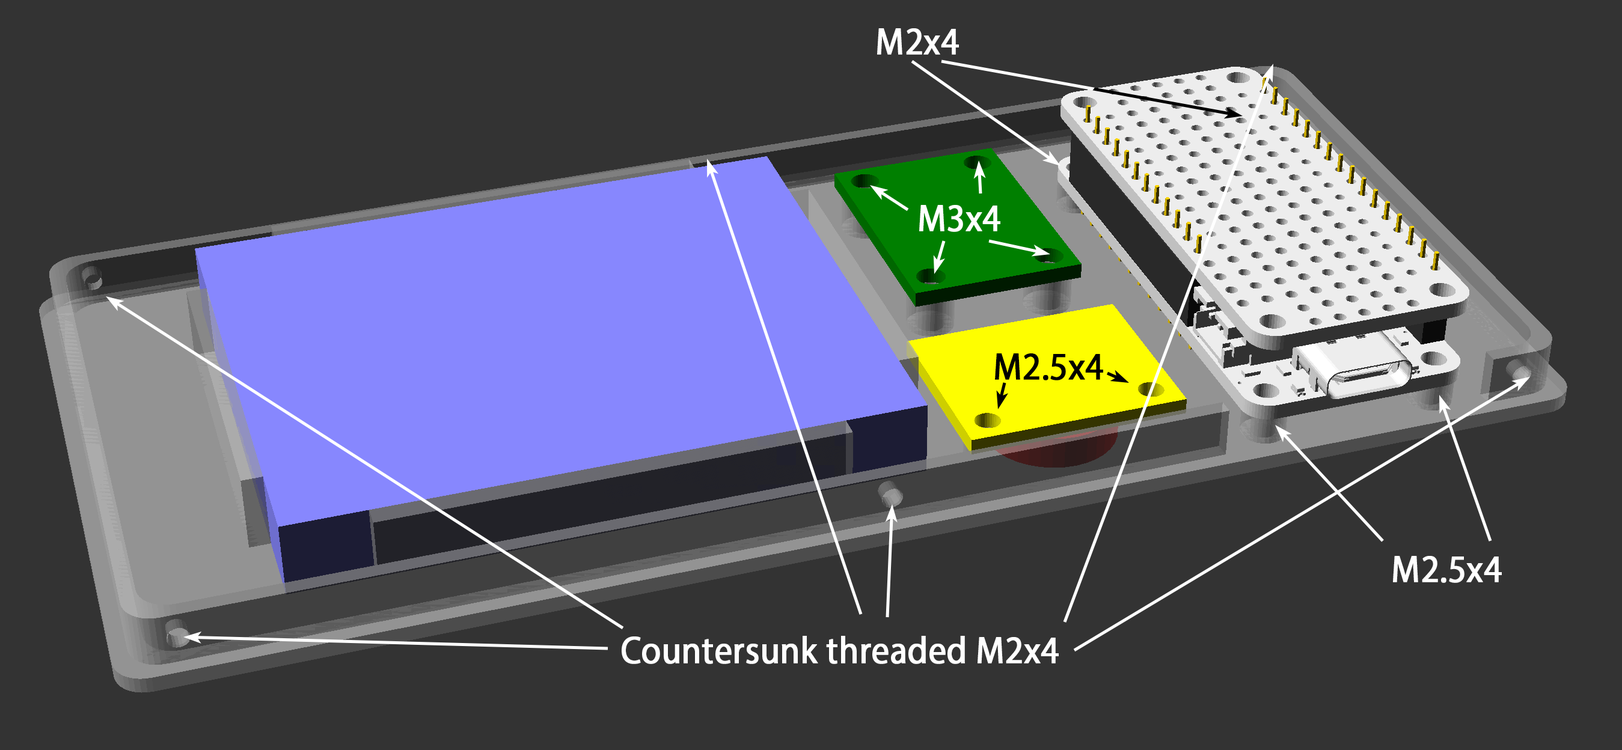
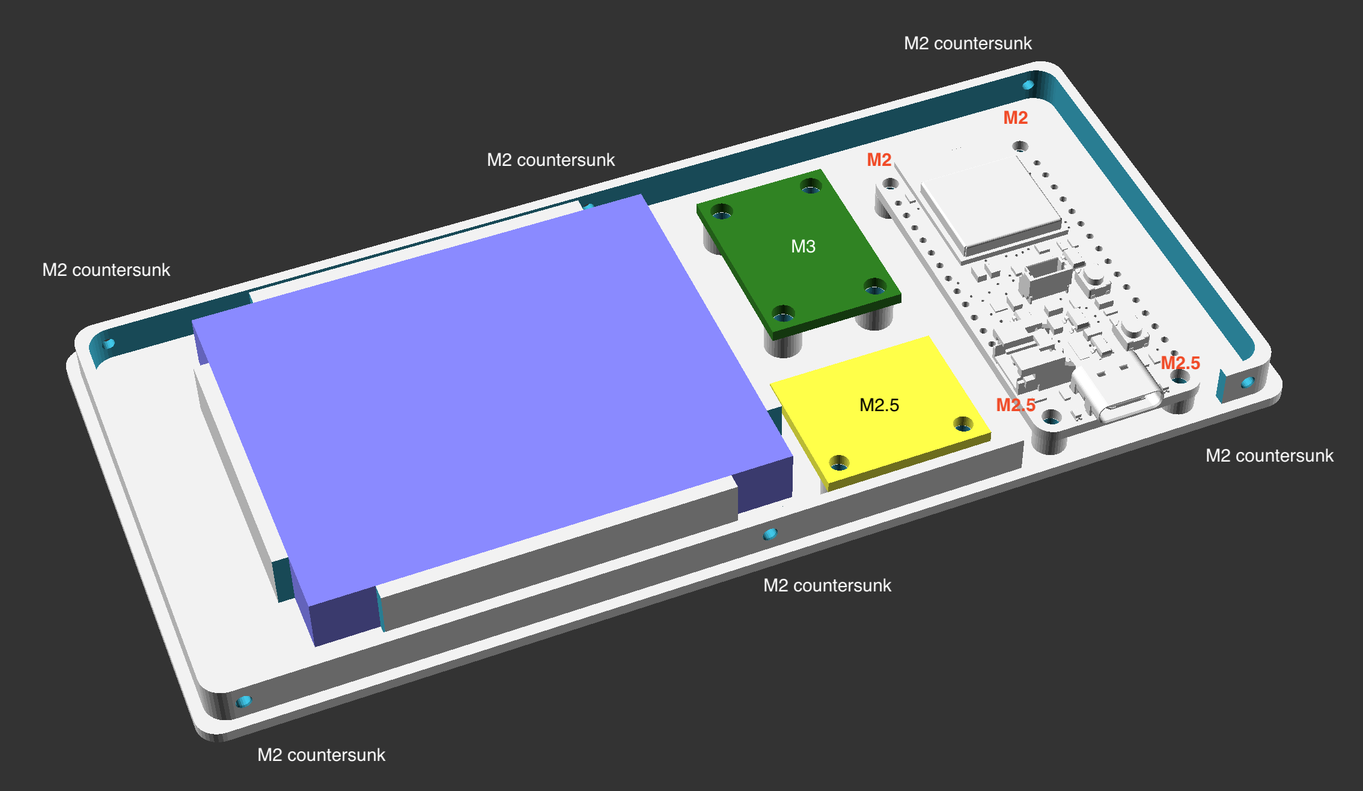
* Moved usage docs to software repo * Got rid of now-outdated post-assembly image * Builds no longer need the FeatherWing Proto nor either set of headers! * Piezo GND now gets soldered to the RTC's GND and Fritzing image updated accordingly * Various other doc cleanups * Add reset procedures to trou

diff --git a/README.md b/README.md
@@ -27,21 +27,19 @@ Note that you can get most of these parts from the manufacturer directly like [A
 
 Deviate from the parts list at your own risk, but _do not get a different battery!_ Adafruit batteries have polarities that match their own boards, and using a battery off Amazon or elsewhere may not match and destroy your board or even start a fire!
 
-| Part                                                                                                         | Quantity | Price  |
-|--------------------------------------------------------------------------------------------------------------|----------|--------|
-| [Adafruit ESP32-S3 Feather with 4MB Flash 2MB PSRAM](https://www.adafruit.com/product/5477)                  | 1        | $17.50 |
-| [Sparkfun 20x4 SerLCD](https://www.sparkfun.com/products/16398)                                              | 1        | $26.95 |
-| [Adafruit ANO Rotary Navigation Encoder to I2C Stemma QT Adapter](https://www.adafruit.com/product/5740)     | 1        | $4.95  |
-| [ANO Directional Navigation and Scroll Wheel Rotary Encoder](https://www.adafruit.com/product/5001)          | 1        | $8.95  |
-| [Lithium Ion Polymer Battery - 3.7v 2500mAh](https://www.adafruit.com/product/328)                           | 1        | $14.95 |
-| [STEMMA QT / Qwiic JST SH 4-pin Cable - 100mm Long](https://www.adafruit.com/product/4210)                   | 2        | $0.95  |
-| [STEMMA QT / Qwiic JST SH 4-pin Cable - 50mm Long](https://www.adafruit.com/product/4399)                    | 1        | $0.95  |
-| [Small Enclosed Piezo w/Wires](https://www.adafruit.com/product/1740)                                        | 1        | $0.95  |
-| [Adafruit SPI Flash SD Card - XTSD 512 MB](https://www.adafruit.com/product/4899)                            | 1        | $9.50  |
-| [Adafruit PCF8523 Real Time Clock Breakout Board - STEMMA QT / Qwiic](https://www.adafruit.com/product/5189) | 1        | $4.95  |
-| [Short Feather Male Headers - 12-pin and 16-pin Male Header Set](https://www.adafruit.com/product/3002)      | 1        | $0.50  |
-| [Short Headers Kit for Feather - 12-pin + 16-pin Female Headers](https://www.adafruit.com/product/2940)      | 1        | $1.50  |
-| [FeatherWing Proto - Prototyping Add-on For All Feather Boards](https://www.adafruit.com/product/2884)       | 1        | $4.95  |
+| Part                                                                                                         | Quantity | Price      |
+|--------------------------------------------------------------------------------------------------------------|----------|------------|
+| [Adafruit ESP32-S3 Feather with 4MB Flash 2MB PSRAM](https://www.adafruit.com/product/5477)                  | 1        | $17.50     |
+| [Sparkfun 20x4 SerLCD](https://www.sparkfun.com/products/16398)                                              | 1        | $26.95     |
+| [Adafruit ANO Rotary Navigation Encoder to I2C Stemma QT Adapter](https://www.adafruit.com/product/5740)     | 1        | $4.95      |
+| [ANO Directional Navigation and Scroll Wheel Rotary Encoder](https://www.adafruit.com/product/5001)          | 1        | $8.95      |
+| [Lithium Ion Polymer Battery - 3.7v 2500mAh](https://www.adafruit.com/product/328)                           | 1        | $14.95     |
+| [STEMMA QT / Qwiic JST SH 4-pin Cable - 100mm Long](https://www.adafruit.com/product/4210)                   | 2        | $0.95      |
+| [STEMMA QT / Qwiic JST SH 4-pin Cable - 50mm Long](https://www.adafruit.com/product/4399)                    | 1        | $0.95      |
+| [Small Enclosed Piezo w/Wires](https://www.adafruit.com/product/1740)                                        | 1        | $0.95      |
+| [Adafruit SPI Flash SD Card - XTSD 512 MB](https://www.adafruit.com/product/4899)                            | 1        | $9.50      |
+| [Adafruit PCF8523 Real Time Clock Breakout Board - STEMMA QT / Qwiic](https://www.adafruit.com/product/5189) | 1        | $4.95      |
+| **Total**                                                                                                    |          | **$91.55** |
 
 Note the headers are the *short headers* that Adafruit sells, not the full height ones that come with most boards. Do not use full height headers or the boards won't fit in the enclosure!
 
@@ -61,7 +59,7 @@ You will also need the following supplies. The manufacturer doesn't matter but s
 * 1.75mm *transparent* 3D printing filament, ~6mm worth; this acts as a light pipe and you won't actually print using it
 
 And lastly, tools:
-* Screwdriver that works with the screws you picked
+* Small screwdriver
 * Wire cutters/strippers
 * Soldering iron
 * A 3D printer
@@ -73,7 +71,7 @@ You can print the enclosure in either one or two colors. Whichever you choose:
 
 * Infill amount and style doesn't matter much because there isn't much to infill.
 * Don't use supports.
-* 0.2mm layer height is best. You can probably print taller layers, but it'll lower the resolution of the USB C ports and light pipe guide.
+* 0.2mm layer height is best. Avoid variable height layers because it'll make the LCD and rotary encoder insets look weird.
 * If you set the [bottom infill pattern to "Archimedian Chords"](https://help.prusa3d.com/article/infill-patterns_177130#types-of-top-bottom-layer-infill) on both parts, it'll look prettier. Same if you use PETG and print on a [textured plate](https://www.prusa3d.com/product/textured-powder-coated-steel-sheet/).
 
 If you're editing `BabyPod.scad`, your system needs the font "SignPainter" installed.
@@ -107,7 +105,7 @@ Here is where everything fits in the enclosure. The perimeter of each part has h
 * The blue rectangle is the battery. The cable will exit by the bottom-left. It is press fit.
 * The green board is the [RTC](https://en.wikipedia.org/wiki/Real-time_clock). The vertical orientation doesn't matter. It uses four M3x4 screws. The battery faces up and the STEMMA QT ports face down.
 * The yellow board is the Flash SD board. The components face up and the flat surface faces down. It uses two M2.5x4 screws.
-* The bottom white board is the Feather and on top, held in place by the short headers, is the FeatherWing proto. The Feather is screwed in using two M2.5x4 screws in the front near the USB C port, and in the back (hard to see in the picture) the smaller holes of the Feather use two M2x4 screws. The screws hold just the Feather itself in place. They don't go through both the Feather and the FeatherWing Proto.
+* The white board is the Feather. It is screwed in using two M2.5x4 screws in the front near the USB C port, and in the back the smaller holes of the Feather use two M2x4 screws.
 * The piezo is the red circle underneath the yellow Flash SD board. It is press fit like the battery. The hole in the piezo faces down and the wires exit through the hole in the circle.
 
 ## Assembly
@@ -143,70 +141,54 @@ Even though there isn't much to copy, it might take a few minutes. At this point
 
 #### Overview
 
-Here is a logical diagram of how everything connects. The FeatherWing isn't pictured and this isn't physically how everything is laid out in the enclosure; this just shows what pins go where. Don't start soldering yet!
+Here is a logical diagram of how everything connects. This isn't physically how everything is laid out in the enclosure but just shows what pins go where. Don't start soldering yet!
 
 ![Fritzing diagram](docs/img/fritzing.png)
 
-* Blue wires are [STEMMA QT](https://learn.adafruit.com/introducing-adafruit-stemma-qt/what-is-stemma-qt) cables ([I2C](https://learn.adafruit.com/circuitpython-basics-i2c-and-spi/i2c-devices)). These don't get soldered. There is a ["QWIIC" connector](https://www.sparkfun.com/qwiic) on the back of the LCD board to which a STEMMA QT cable plugs in. STEMMA QT and QWIIC are functionally identical; the former is what Adafruit calls the connection and the latter is Sparkfun's name.
+* Blue wires are [STEMMA QT](https://learn.adafruit.com/introducing-adafruit-stemma-qt/what-is-stemma-qt) cables ([I2C](https://learn.adafruit.com/circuitpython-basics-i2c-and-spi/i2c-devices)). These don't get soldered. On boards with two STEMMA QT connectors, the connections are interchangeable. The LCD's connector is labeled "QWIIC" which is just Sparkfun's name for the same connector.
 * The yellow wire is the only soldered wire on the rotary encoder and connects its `INT` pin to the Feather's `11`.
-* Black wires are all `GND`.
-* The red wire on the Flash SD board gets +3.3V from the Feather's `3V` pin.
-* The red wire on the piezo goes to `A3`.
+* Black wires are all `GND` and red wires are all +3.3V. The black wire is the only soldered wire on the RTC.
+* The orange wire on the piezo goes to `A3`.
 * The green wires are all used for [SPI](https://learn.adafruit.com/circuitpython-basics-i2c-and-spi/spi-devices) communication for the Flash SD card.
 * The battery plugs directly into the Feather's battery terminal.
 * The rotary encoder *dial* itself isn't shown, but it gets soldered to its respective board directly.
 
-#### Before you start
+Before soldering, orient yourself to where everything mounts to the 3D printed parts. You want to use just enough wire to reach each connection point, but not too much excess or you won't be able to fit everything inside the enclosure. It may help to keep [Adafruit's pinout documentation of the Feather](https://learn.adafruit.com/adafruit-esp32-s3-feather/pinouts) open while you're soldering. Triple check which pin you're soldering to before you actually do it!
 
-Before soldering, orient yourself to where everything mounts to the 3D printed parts. You want to use just enough wire to reach each connection point, but not too much excess or you won't be able to fit everything inside the enclosure.
+Many of the boards ship with a strip of headers included. You won't use them.
 
-It may help to keep [Adafruit's pinout documentation of the Feather](https://learn.adafruit.com/adafruit-esp32-s3-feather/pinouts) open while you're soldering. Pay very close attention to soldering wires to the FeatherWing proto. Always be aware of which side has the shorter or longer header, and if you're looking at it upside down or right-side up. Triple check which pin you're soldering to before you actually do it!
-
-There are a few important points to keep in mind when using the FeatherWing Proto:
-
-* Look at the [pinout](https://learn.adafruit.com/featherwing-proto-and-doubler/proto-pinout). The headers get soldered to the outermost set of pins in the white bordered areas. The white printed area faces up.
-* The leftmost column of pins that has a white border around it is the +3.3V bus. You can use any of those solder points to get +3.3V power.
-* Similarly, the column of pins immediately to the right of the +3.3V bus are all ground pins. Solder to any of them for a ground connection.
-* The rows of pins immediately below the top header and immediately above the bottom header share connections with the Feather's underlying pins. For example, the top-right pin goes to `SDA` via the male header into the Feather's female header, and the pin on the FeatherWing immediately below that one is shared with that pin, so it too goes with `SDA`.
-* The pins between the headers in the middle of the board aren't connected to anything and are meant for prototyping, hence the name of the product. That is, they *do not connect to the Feather and you should not solder to them for assembling the BabyPod!*
-
-Many of the boards ship with headers included. Don't solder those!
-
-#### Solder rotary encoder
+#### Soldering
 
 Solder the rotary encoder dial to its breakout board. It only fits one way. Be careful not to skip any connections.
 
-#### Solder headers
+Then solder the following connections from the respective devices to their targets:
 
-1. Solder the short female headers to the top of the Feather (i.e., the side with all the components on it).
-2. [Solder the short male headers to the bottom of the FeatherWing Proto.](https://learn.adafruit.com/featherwing-proto-and-doubler/assembly). The printed text on the FeatherWing must be on top and the long pins of the headers and their plastic retainer on the bottom.
-
-#### Solder connections to the FeatherWing Proto
-
-Solder the following connections from the respective devices to the FeatherWing Proto:
-
-| Device               | Pin/Wire   | To    |
-|----------------------|------------|-------|
-| Piezo                | Black wire | `GND` |
-| Piezo                | Red wire   | `A3`  |
-| Flash SD card        | `VIN`      | `3V`  |
-| Flash SD card        | `GND`      | `GND` |
-| Flash SD card        | `SCK`      | `SCK` |
-| Flash SD card        | `MISO`     | `MI`  |
-| Flash SD card        | `MOSI`     | `MO`  |
-| Flash SD card        | `CS`       | `10 ` |
-| Rotary encoder board | `INT`      | `11`  |
+| Device               | Pin/Wire   | To                   |
+|----------------------|------------|----------------------|
+| Piezo                | Black wire | `GND` on the RTC     |
+| Piezo                | Red wire   | `A3` on the Feather  |
+| Flash SD card        | `VIN`      | `3V` on the Feather  |
+| Flash SD card        | `GND`      | `GND` on the Feather |
+| Flash SD card        | `SCK`      | `SCK` on the Feather |
+| Flash SD card        | `MISO`     | `MI` on the Feather  |
+| Flash SD card        | `MOSI`     | `MO` on the Feather  |
+| Flash SD card        | `CS`       | `10` on the Feather  |
+| Rotary encoder board | `INT`      | `11` on the Feather  |
 
 The piezo wires are very thin, so be careful. Less solder is best.
 
-You will not solder any wires to the LCD nor to the RTC, and only one wire gets soldered to the rotary encoder.
+Note that all the soldered wires are between the Feather and the Flash SD card with two exceptions:
+
+* The rotary encoder's `INT` pin goes to the Feather.
+* The piezo's black ground wire goes to the RTC.
 
 ### Mount components
 
-When screwing in components, use just enough force to keep things in place. Don't over-tighten the screws or you'll strip
-the non-existent threads in the 3D printed parts and need to print them again.
+When screwing in components, use just enough force to keep things in place. Don't over-tighten the screws or you'll strip the non-existent threads in the 3D printed parts and need to print them again. Repeatedly screwing into the same standoff may also strip it, even if it's not over-tightened, and you'll need to reprint.
 
 The plugs on STEMMA QT cables only fit one way. Don't use a lot of force or you can easily bend one of the thin pins in their ports.
+
+If you need to, you can change the order of the steps below if shoving everything into the enclosure is finicky.
 
 1. Connect the LCD to the rotary encoder using one of the 100mm STEMMA QT cables. It doesn't matter which port on the rotary encoder you use. On the other STEMMA QT port on the rotary encoder, plug in another 100mm STEMMA QT cable. It'll later connect to other components, but not yet.
 2. Screw the rotary encoder into place with four M2.5x4 screws. The set of pins on it, including where you soldered the `INT` wire, should face towards the cutout for the LCD and the star with the Adafruit logo by the outer edge of the case with the STEMMA QT connectors pointing to the top and bottom of the case.
@@ -218,143 +200,32 @@ The plugs on STEMMA QT cables only fit one way. Don't use a lot of force or you 
 8. Screw the Feather into place with the USB C port facing towards the cutout in the case and the female headers facing up. Use two M2.5x4 screws for the larger holes and two M2x4 screws for the smaller ones.
 9. Plug the 50mm STEMMA QT cable into the Feather's port and into the nearest port on the RTC, then connect the STEMMA QT cable from the assembled case with the rotary encoder into the other port on the RTC.
 10. Press the battery into its retainer with the cable by the bottom-left, assuming the Feather's USB C port is facing you. Don't plug in the battery's cable into the Feather yet.
-11. Press the FeatherWing Proto into the Feather's female headers. Be careful the pins are aligned and you're not off-by-one.
 
 ### Testing before final assembly
 
-At this point, you should have all the connections made, except the battery. You can test the BabyPod by plugging in the USB C cable and seeing if it starts up. If you get to the main menu, all your connections are good. You should also hear the piezo beep when it starts up.
+At this point, you should have all the connections made except the battery. You can test the BabyPod by plugging in the USB C cable and seeing if it starts up. If you hear a beep and the main menu shows up then your connections are likely good.
 
-Once assembled, it should look similar to this:
-
-![Assembled but open BabyPod](docs/img/assembled.jpg)
-
-In this picture, the battery is connected, but you do that later.
+If you don't hear a beep but everything else seems to work, make sure the piezo is soldered properly per the connections above and that the RTC's STEMMA QT connections are solid.
 
 ### Final assembly
 
 If the test passed, continue on:
 
 1. Unplug the USB C cable from the Feather.
-2. Plug the battery into the Feather. It will boot up the BabyPod, so be careful as the Feather and other components are now live.
-3. Carefully press together the two 3D printed parts, being sure to align the USB C hole to the Feather.
-4. Screw them together with the countersunk self-tapping M2 screws. Be especially careful not to over-tighten!
-5. Shove the little bit of transparent 1.75mm filament into the hole next to the USB C connector until it is flush with the outside of the case. It acts as a light pipe for the Feather's charge LED.
+2. Plug the battery into the Feather. The BabyPod will boot up.
+3. Carefully press together the two 3D printed parts, being sure to align the USB C hole to the Feather. Make sure the reset hole guide is unobstructed and there are no wires stuck underneath it.
+4. Screw the backplate and the enclosure together with the countersunk self-tapping M2 screws. Be especially careful not to over-tighten!
+5. Shove the little bit of transparent 1.75mm filament into the hole next to the USB C connector until it is flush with the outside of the case. It acts as a light pipe for the Feather's charge LED. You might want to use pliers. If you want, carefully apply a tiny drop of superglue to hold it in place, but friction alone is probably sufficient.
 
 ## Basic usage
 
-### Controls
-
-| Button                | Effect                                                                                                                                                                                             |
-|-----------------------|----------------------------------------------------------------------------------------------------------------------------------------------------------------------------------------------------|
-| <kbd>⊙ Center</kbd>   | <ul><li>Power on (brief press when BabyPod is off)</li><li>Power off (press and hold 3 seconds)</lil><li>Accept current selection</li><li>Toggle checkbox on/off</li><li>Dismiss message</li></ul> |
-| <kbd>↻ Rotation</kbd> | <ul><li>Move selection up/down</li><li>Increase/decrease number</li></ul>                                                                                                                          |
-| <kbd>◀ Left</kbd>     | <ul><li>Go back/cancel</li><li>Abort current timer</li><li>Change settings (home screen only)</li></ul>                                                                                            |
-| <kbd>▶ Right</kbd>    | <ul><li>Accept selection/save</li><li>Dismiss message</li></ul>                                                                                                                                    |
-| <kbd>▲ Up</kbd>       | <ul><li>Move selection up</li><li>Increase number</li></ul>                                                                                                                                        |
-| <kbd>▼ Down</kbd>     | <ul><li>Move selection down</li><li>Decrease number</li><li>Force reset (press and hold)</li></ul>                                                                                                 |
-
-Holding <kbd>⊙ Center</kbd> to turn off the BabyPod and holding <kbd>▼ Down</kbd> to reset it only work when the BabyPod is waiting for input from you, like showing a menu or running a timer. If the BabyPod is busy doing something, like loading data from or sending data to Baby Buddy, wait for the operation to complete.
-
-The orange LED by the USB C port is illuminated when the battery is charging. If it is not illuminated, the battery is fully charged or the USB C cable isn't inserted fully, is faulty, or is connected to a bad power supply.
-
-The soft power control options with pressing or holding <kbd>⊙ Center</kbd> are only enabled if `USE_SOFT_POWER_CONTROL` is enabled in `settings.toml.` Additionally, enabling this option will make the BabyPod shut off automatically after five minutes of inactivity except during timers.
-
-### Messages
-
-The percentage at top-right is the battery level.
-
-The last feeding on the main menu, if shown, denotes the last feeding method:
-
-| Label | Meaning      |
-|-------|--------------|
-| `R`   | Right breast |
-| `L`   | Left breast  |
-| `RL`  | Both breasts |
-| `B`   | Bottle       |
-| `S`   | Solid food   |
-
-Various messages are shown at startup and during typical usage:
-
-| Message              | Meaning                                                                                                                        |
-|----------------------|--------------------------------------------------------------------------------------------------------------------------------|
-| Starting up...       | Initial code is booting up.                                                                                                    |
-| Connecting...        | Establishing Wi-Fi connection (DHCP, etc.). This doesn't necessarily mean connected to Baby Buddy yet, just the Wi-Fi network. |
-| Going offline        | Wi-Fi connection failed so offline mode was forced.                                                                            |
-| Low battery!         | Battery is less than 15% charged.                                                                                              |
-| Getting feeding...   | Getting most recent feeding from Baby Buddy to show on the main menu                                                           |
-| Setting clock...     | Syncing the RTC; happens if clock was never set or about once daily                                                            |
-| Getting children...  | Getting child list from Baby Buddy. The first one is used. This only appears once unless you clear NVRAM.                      |
-| Saving...            | Sending data to Baby Buddy or SD card, depending on whether you're online or offline.                                          |
-| Canceling...         | Deleting the currently active timer                                                                                            |
-| Checking status...   | Checking for a currently running timer, or starting a new one if it doesn't exist                                              |
-| Checking timers...   | Seeing if there's a known timer running so the main menu can be skipped and that timer resumed                                 |
-| Checking messages... | Checking notes if there's a message of the day                                                                                 |
-
-### Sounds
-
-The piezo makes some chimes and beeps to keep you informed. Remember you can turn off the piezo in the settings.
-
-| Sound              | Reason                                                                                                                                                                                                                                                                                                                        |
-|--------------------|-------------------------------------------------------------------------------------------------------------------------------------------------------------------------------------------------------------------------------------------------------------------------------------------------------------------------------|
-| Startup            | The BabyPod is starting up                                                                                                                                                                                                                                                                                                    |
-| Low battery        | Battery is less than 15% charged                                                                                                                                                                                                                                                                                              |
-| Success            | Saving data was successful, either to Baby Buddy (if online) or to the SD card (if offline)                                                                                                                                                                                                                                   |
-| Error              | Something went wrong, most likely a failed request to Baby Buddy                                                                                                                                                                                                                                                              |
-| Idle warning       | The BabyPod is on, but no timer is running and it's been left idle, so you're being reminded to turn off the BabyPod if not in use.                                                                                                                                                                                           |
-| Chime              | Happens every minute during tummy time, or 15 minutes into feeding and then every minute after 30 minutes have elapsed during feeding. The tummy time chime is to keep track of your baby's progress without watching the screen. The feeding timer is to remind you it's still running and about the time to switch breasts. |
-| Info               | The BabyPod is going offline because the Wi-Fi connection failed. You will need to manually go online later; it won't try on its own.                                                                                                                                                                                         |
-| Shutdown           | You held <kbd>⊙ Center</kbd> for three seconds so the BabyPod is shutting down.                                                                                                                                                                                                                                               |
-| Message of the Day | There's a message of the day available                                                                                                                                                                                                                                                                                        |
-
-### User settings
-
-The user of the BabyPod can configure some of its settings directly through its interface (i.e., not just through `settings.toml`). To access settings, from the home screen, press <kbd>◀ Left</kbd>.
-
-Some options aren't shown if hardware support isn't available or something is configured in `settings.toml`.
-
-| Setting          | Default | Effect                                                                     | Notes                                                                 |
-|------------------|---------|----------------------------------------------------------------------------|-----------------------------------------------------------------------|
-| Play sounds      | On      | Enables (on) or disables (off) sounds played through the piezo             |                                                                       |
-| Off after timers | Off     | Shut down (on) or keep powered on (off) the BabyPod after a timer is saved | Only shown on devices with soft power control enabled                 |
-| Offline          | Off     | Enters (on) or leaves (off) offline mode; see that section below           | Only shown on devices with offline support (hardware RTC and SD card) |
-
-Settings are persisted to NVRAM so they remain in effect across power cycles and battery discharges.
-
-### Offline usage
-
-You should go offline when:
-
-* Using BabyPod away from home
-* You don't have an internet connection
-* Baby Buddy is down
-* Your Wi-Fi connection fails (this switches to offline automatically)
-
-To go offline:
-
-1. On the main menu, press <kbd>◀ Left</kbd> to enter settings.
-2. Scroll down to Offline and press <kbd>⊙ Center</kbd> to check it.
-3. Press <kbd>▶ Right</kbd> to save.
-
-The main menu will now show ◀☐ at the bottom-right indicating that you're offline.
-
-To go back online, repeat the same steps as above but uncheck the Offline checkbox. The BabyPod will show a progress bar as it reconnects to Baby Buddy and replays everything that happened while you were offline. Once complete, the main menu will now show ◀✓ to show that you're online.
-
-Don't go offline unless you need to. By staying online, you sync data regularly to Baby Buddy.
-
-If you don't see the offline option, your BabyPod is missing either the RTC or the SD card reader, or they failed to initialize.
-
-### Message of the day
-
-You can push a message of the day (MOTD) to a BabyPod. The message can be up to 20 characters in length. To do this:
-
-1. Create a new note in Baby Buddy with your desired text.
-2. Tag it with "BabyPod MOTD", creating the tag if it doesn't exist.
-
-BabyPod will consume the MOTD by checking notes every few hours for a note with that tag. If it finds one, it shows a modal to the user with a special chime. The note is deleted so it doesn't get consumed twice. If multiple BabyPods connect to the same instance of Baby Buddy, the first one to pull the note wins.
-
-BabyPod will only try to consume MOTDs if online, there's an RTC available, and it's been a while since the last check. Remember the character LCD only supports a small subset of characters so don't try Unicode emojis or anything outside the lower ASCII character set.
+Head over to the [`babypod-software`](https://github.com/skjdghsdjgsdj/babypod-software/) repository for how to use the BabyPod.
 
 ## Troubleshooting
+
+Shove a paperclip in the hole under the rotary encoder to press the Feather's reset button. This is a hardware reset that should always work. You can reset in software by pressing and holding the Down button too if the BabyPod is listening for user input.
+
+Hint: to take apart the BabyPod, there are tiny divots on the left and right of the enclosure. You can hook your fingernails in there for leverage.
 
 ### Power and wiring-related
 
